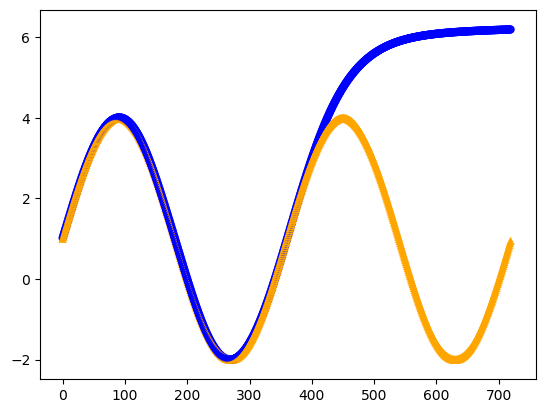
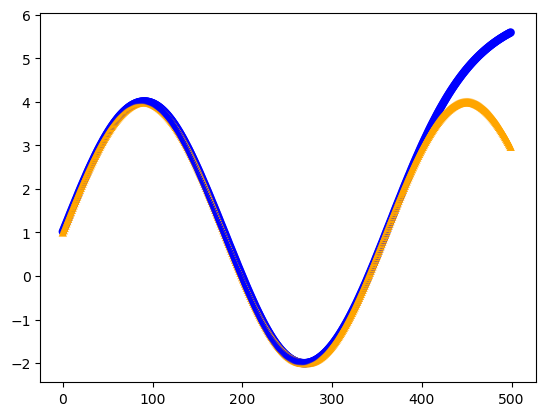
Imagens resultados isabel

diff --git a/T5/Analisys_regression.py b/T5/Analisys_regression.py
@@ -62,7 +62,7 @@ plt.show()
 
 max = oExp11.experimentResults[0].normalize_between[0,0]
 min = oExp11.experimentResults[0].normalize_between[0,1]
-for i in range(720):
+for i in range(500):
     plt.scatter(i, oData11.model.predict((i-min)/(max-min))[0,0], marker=MARKER[0], edgecolors='none', color=COLORS[0])
     plt.scatter(i, 3 * np.sin(i*np.pi/180) +1 , marker=MARKER[1], edgecolors='none', color=COLORS[1])
 plt.savefig(("Results/et1_ex1_surface_reg.png"), dpi=100, bbox_inches="tight")
